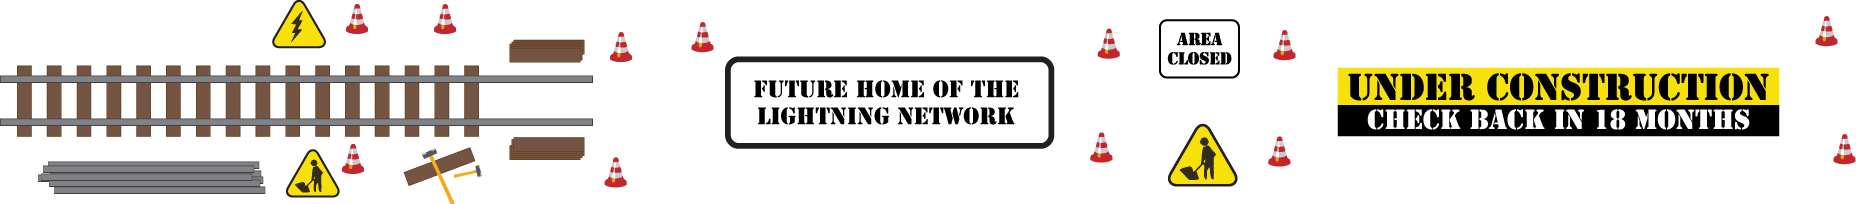
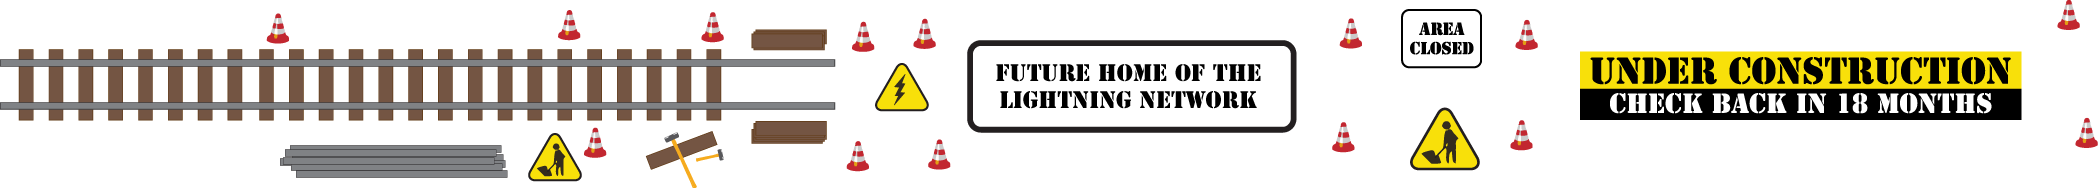
Setup LN under construction. Modified lanes in JS down to 2 lanes. Setup no2x sign on 2nd lane.

diff --git a/index.html b/index.html
@@ -13,7 +13,8 @@
 	</script>
 </head>
 <body>
-	<canvas height="100%" id="renderCanvas" width="100%"></canvas><span class="divider"></span> <span class="lane-size one">1mb</span> <span class="lane-size two">2mb</span> <span class="lane-size three">3mb</span> <span class="lane-size four">4mb</span> <span class="lane-size five">5mb</span> <span class="lane-size six">6mb</span> <span class="lane-size seven">7mb</span> <span class="lane-size eight">8mb</span> <span class="lane-size one-core">1mb</span> <span class="block one"></span> <span class="block two"></span> <span class="block three"></span> <span class="block four"></span> <span class="caution one"></span> <span class="caution two"></span> <span class="caution three"></span> <span class="caution four"></span>
+	<canvas height="100%" id="renderCanvas" width="100%"></canvas><span class="divider"></span> <span class="lane-size one">1mb</span> <span class="lane-size two">2mb</span> <span class="lane-size three">3mb</span> <span class="lane-size four">4mb</span> <span class="lane-size five">5mb</span> <span class="lane-size six">6mb</span> <span class="lane-size seven">7mb</span> <span class="lane-size eight">8mb</span> <span class="lane-size one-core">1mb</span> <span class="block one"></span> <span class="block two"></span>  <span class="caution one"></span> <span class="caution two"></span>  <span class="no2x one"></span> <span class="no2x two"></span> 
+	<div class="ln"></div>
 	<div class="bitcoin-cash"></div>
 	<div class="bs"></div>
 	<div class="title">

diff --git a/style.css b/style.css
@@ -83,9 +83,9 @@ span {
   top: 72.5%;
   z-index: 2;
   background: url('assets/bg/block.png') no-repeat;
-  background-size: 50% 50%;
+  background-size: 50%;
   width: 27px;
-  height: 246px;
+  height: 110px;
 }
 .block.one {
   left: 45px;
@@ -93,12 +93,7 @@ span {
 .block.two {
   right: 45px;
 }
-.block.three {
-  left: 135px;
-}
-.block.four {
-  right: 135px;
-}
+
 .caution {
   position: absolute;
   z-index: 2;
@@ -111,17 +106,41 @@ span {
   top: 73.5%;
   left: 15px;
 }
+
 .caution.two {
-  left: 15px;
-  top: 88%;
-}
-.caution.three {
   top: 73.5%;
   right: 15px;
 }
-.caution.four {
-  right: 15px;
-  top: 88%;
+
+.no2x {
+  position: absolute;
+  z-index: 2;
+  background: url('assets/bg/no2x.png') no-repeat;
+  background-size: 80%;
+  width: 48px;
+  height: 48px;
+}
+
+.no2x.one {
+  top: 71.7%;
+  left: 75px;
+}
+
+.no2x.two {
+  top: 71.7%;
+  right:75px;
+}
+
+
+.ln {
+  position:absolute;
+  bottom:-10px;
+  left:0;
+  width:100%;
+  height:102px;
+  width:100%;
+  background:url('assets/bg/ln.png') no-repeat;
+  background-size:80%;
 }
 .options {
   top: 10px;
@@ -165,12 +184,12 @@ span.divider {
   z-index: -1;
 }
 .bs {
-  background: #9EA0A3 url('assets/bg/bs.png') no-repeat center 65%;
+  background: #9EA0A3 url(assets/bg/bs.png) no-repeat center 65%;
   background-size: 20.5%;
-  height: 29%;
+  height: 14.4%;
   width: 100%;
   position: absolute;
-  bottom: 6.5%;
+  bottom: 21.4%;
   left: 0;
   z-index: -1;
 }

diff --git a/js/txhighway.js b/js/txhighway.js
@@ -295,7 +295,7 @@ function update(){
 	ctx.setLineDash([6]);
  	ctx.strokeStyle = "#FFF";
 	ctx.strokeRect(-2, SINGLE_LANE * 10, WIDTH + 3, SINGLE_LANE);
-	ctx.strokeRect(-2, SINGLE_LANE * 12, WIDTH + 3, SINGLE_LANE);
+	// ctx.strokeRect(-2, SINGLE_LANE * 12, WIDTH + 3, SINGLE_LANE);
 	
 	// loop through transactions and draw them
 	txCash.forEach (function(item, index, object){
